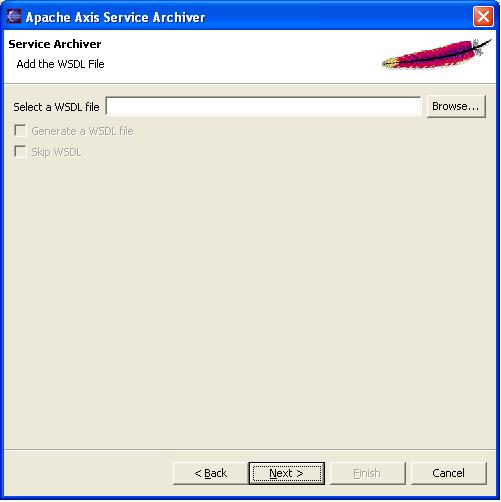
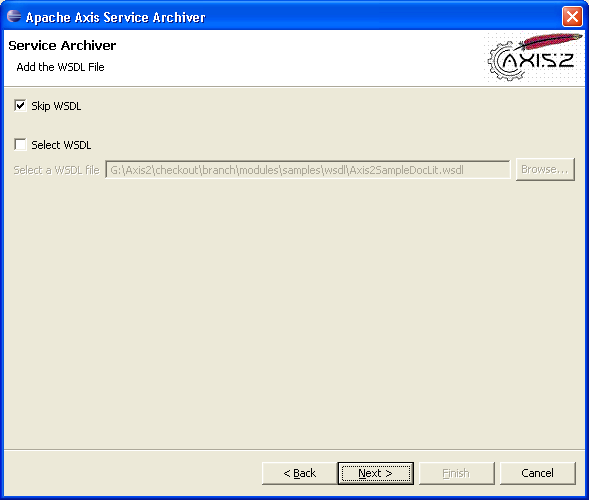
updated the service archiver plugin document, to reflect the changes resently done.
git-svn-id: https://svn.apache.org/repos/asf/webservices/axis2/branches/java/1_1@473732 13f79535-47bb-0310-9956-ffa450edef68

Changed region(s): [[0.0, 0.0, 1.0, 1.0]]

diff --git a/xdocs/tools/1_1/eclipse/servicearchiver-plugin.html b/xdocs/tools/1_1/eclipse/servicearchiver-plugin.html
@@ -58,14 +58,14 @@ files or the class files only of the folder on page 1.</p>
 <p><strong>Page 2:</strong></p>
 
 <p>Page 2 of the wizard as seen below requires you to locate/browse the wsdl
-file. Note that the WSDL file cannot be skipped in this version of the
-tool.</p>
+file. If you do not wish to add a wsdl file to the service archive, select skip wsdl. Else you can 
+select the location of the wsdl file by selecting the select wsdl option.</p>
 
 <p align="center"><img border="0" src="images/service_page2.jpg"></p>
 
 <p><strong>Page 3:</strong></p>
 
-<p>Select the service.xml file on this wizard page by browsing or select the
+<p>Select the services.xml file on this wizard page by browsing or select the
 option of generating service xml automatically, after which you can click
 "Next" button to go to the next page. Notice how the browsing option disables
 when the "Generate service xml automatically" check box is ticked.</p>
@@ -116,14 +116,39 @@ libraries as you wish. See the screen shots below.</p>
 
 <p>If any added library needs to be removed, highlight it or in other words,
 select it from the "Added libraries" list and hit on the "Remove" button as shown
-below. Click on the "Next" button to proceed to the last page of the wizard.</p>
+below. Click on the "Next" button to proceed to the last page of the wizard if the 
+user did not select to auto generate the services.xml file. If user select to auto
+generate the services.xml file then the services.xml option page will be displayd.</p>
 
 <p align="center"><img border="0" src="images/service_page5_remove.jpg"></p>
 
 <p><strong>Page 5:</strong></p>
 
+<p>This page only appears if the user select to generate the services.xml at page 3
+of the wizard. If the user have selected a services.xml then the user will be directed
+to the last page of the wizard.</p>
+
+<p>After entering the correct service name and valid fully qualified calss name,
+try to load the existing methods of that class by clicking the load button.</p>
+
+<p align="center"><img border="0" src="images/service_page4_load.jpg"></p>
+
+<p>If successfuly loaded the user will be presented with a table at the 
+bottom of the page with the details of the loaded class. By checking and unchecking 
+the user can select the nessesary methods to include in the services.xml</p>
+
+<p align="center"><img border="0" src="images/service_page4_table.jpg"></p>
+
+<p>By clicking on the search declared method only check box, the user can remove the 
+inherited methods from the class. Click on the "Next" button to proceed to the last page of the wizard</p>
+
+<p align="center"><img border="0" src="images/service_page4_search_declared.jpg"></p>
+
+<p><strong>Page 6:</strong></p>
+
 <p>The last page of the wizard asks for the output file location and the
-output archive file name.</p>
+output archive file name. To be able to finish the wizard, user must enter
+valid output file location and output file name.</p>
 
 <p></p>
 
